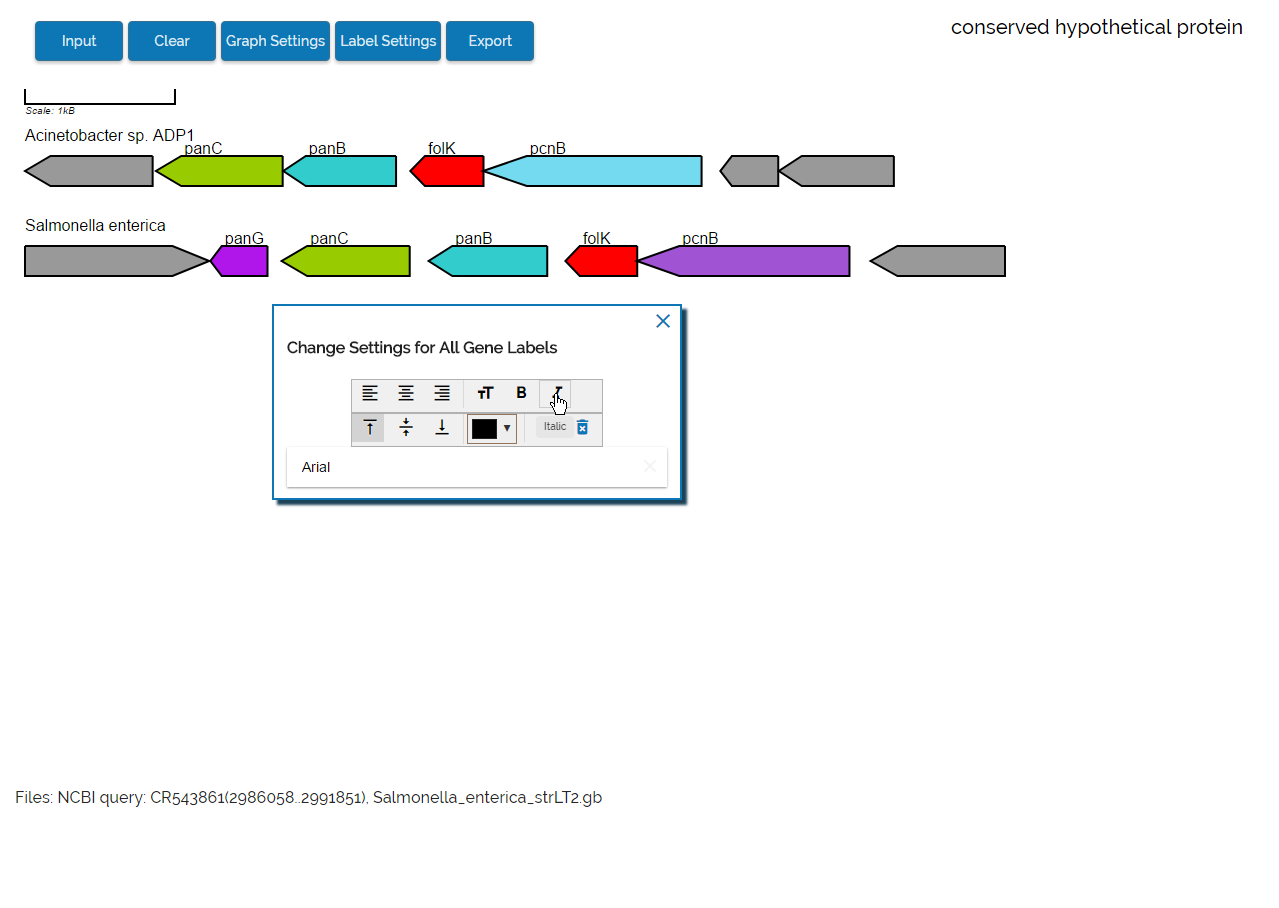
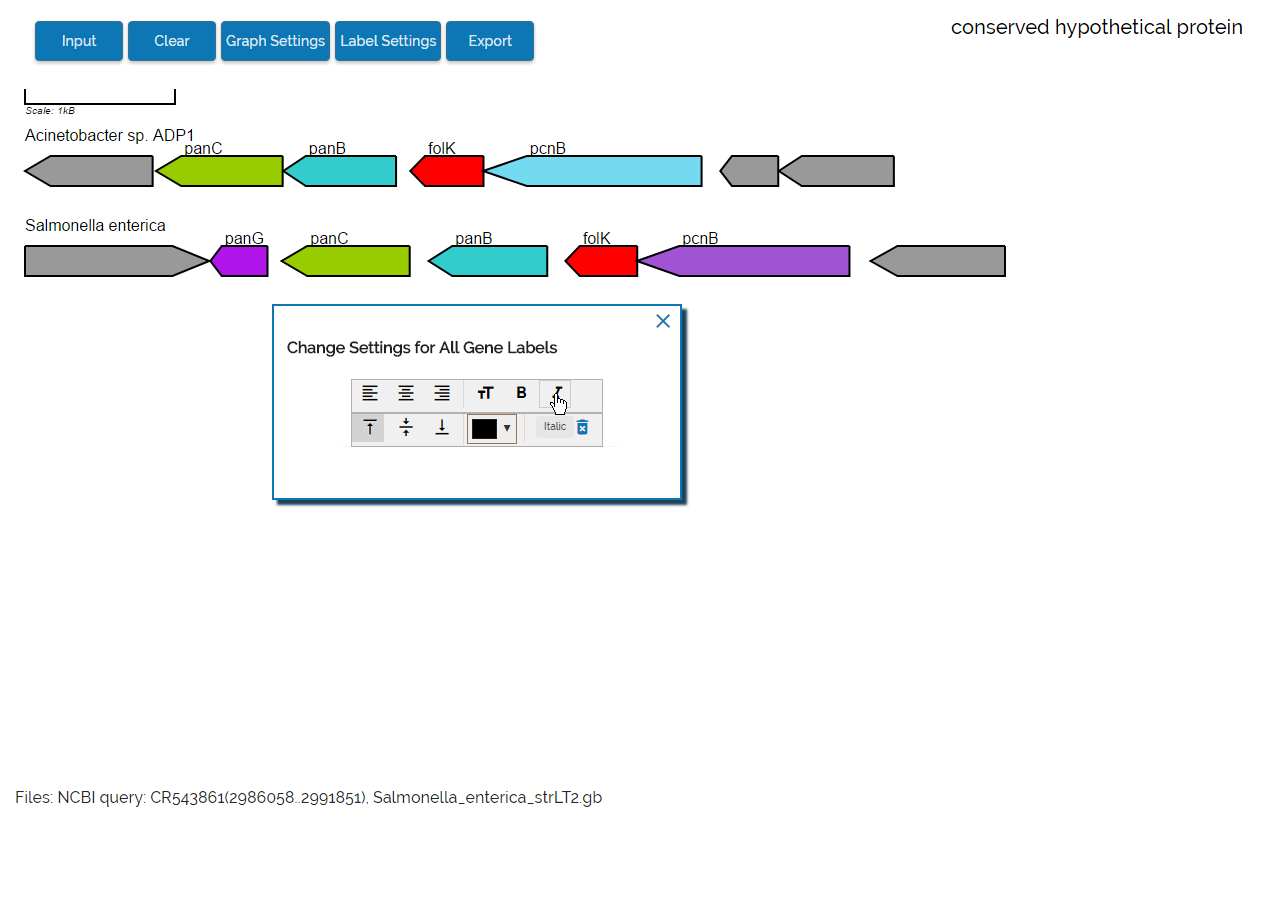
Tutorial 2 update

diff --git a/tutorial2.html b/tutorial2.html
@@ -66,8 +66,6 @@
 		<img src="images/tutorial2/img20.png">
 		<div class="bgcolored"><p>Change the font style to italic by choosing "Italic".</p></div>
 		<img src="images/tutorial2/img21.png">
-		<div class="bgcolored"><p>Change the font family by clicking on 'Font Family' and choosing "Veranda".</p></div>
-		<img src="images/tutorial2/img22.png">
 		<div class="bgcolored"><p>The final produced image can be exported as a SVG file or as a PNG file, by clicking on the “Export” button. The edits done in the “Gene Graphics” application can also be exported as a TSV file, which will produce a table. This can be useful if an image is started, but is not yet finished. Reloading the produced TSV file will allow you to continue your edits.</p> 
 		<img src="images/tutorial2/img23.png">
 
